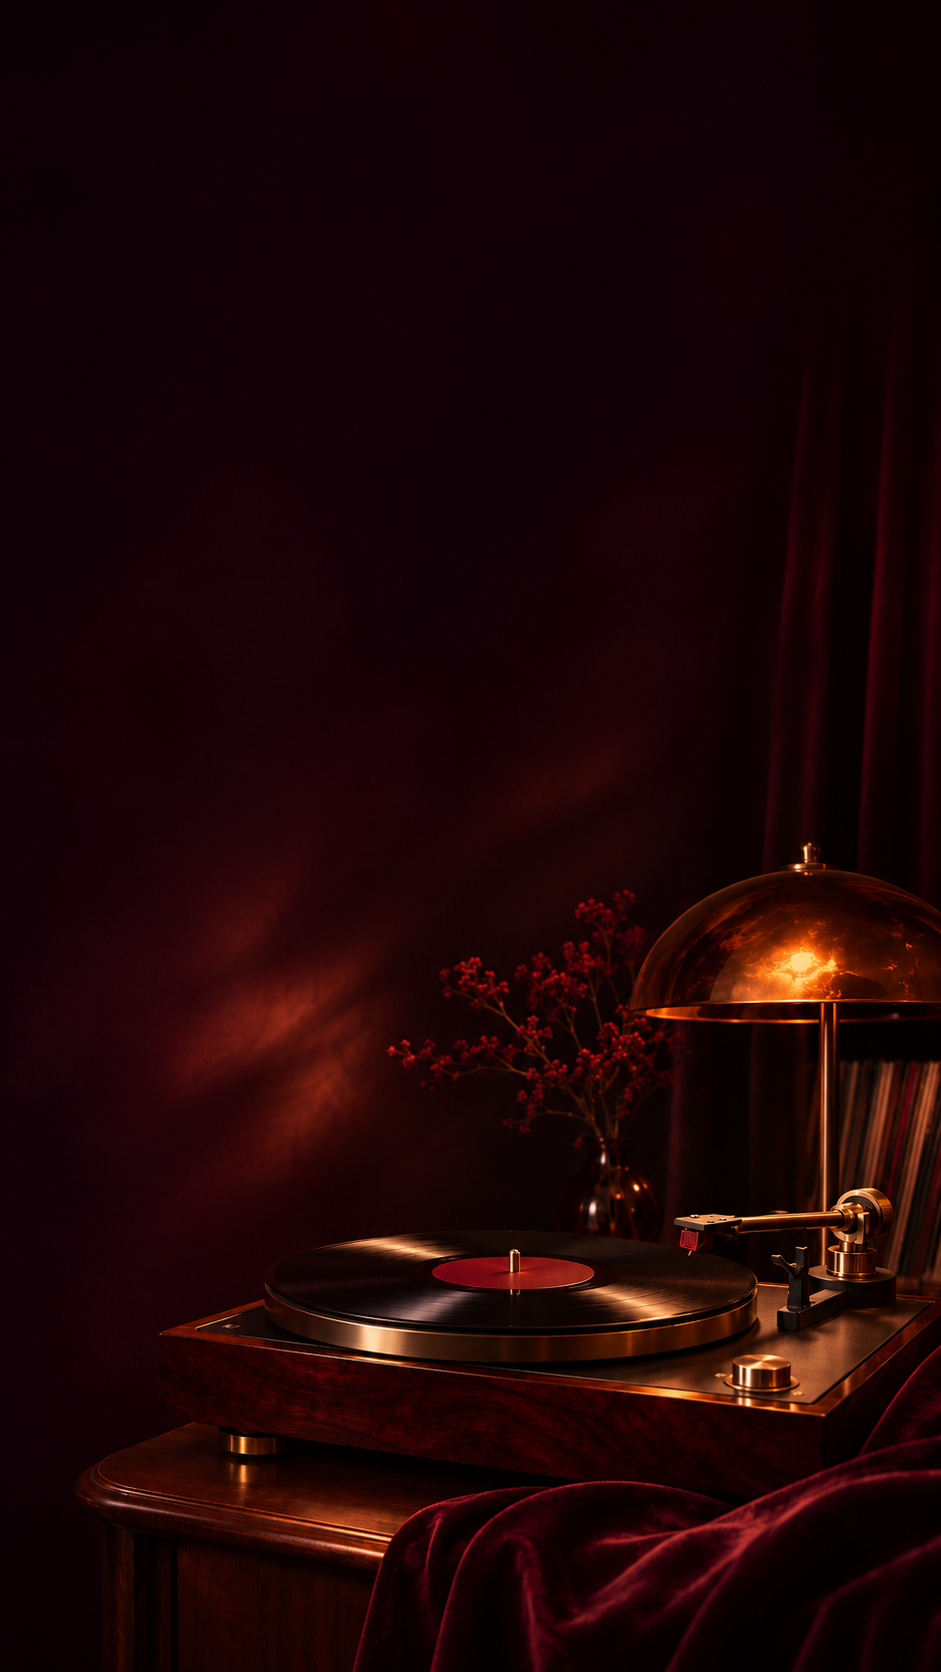
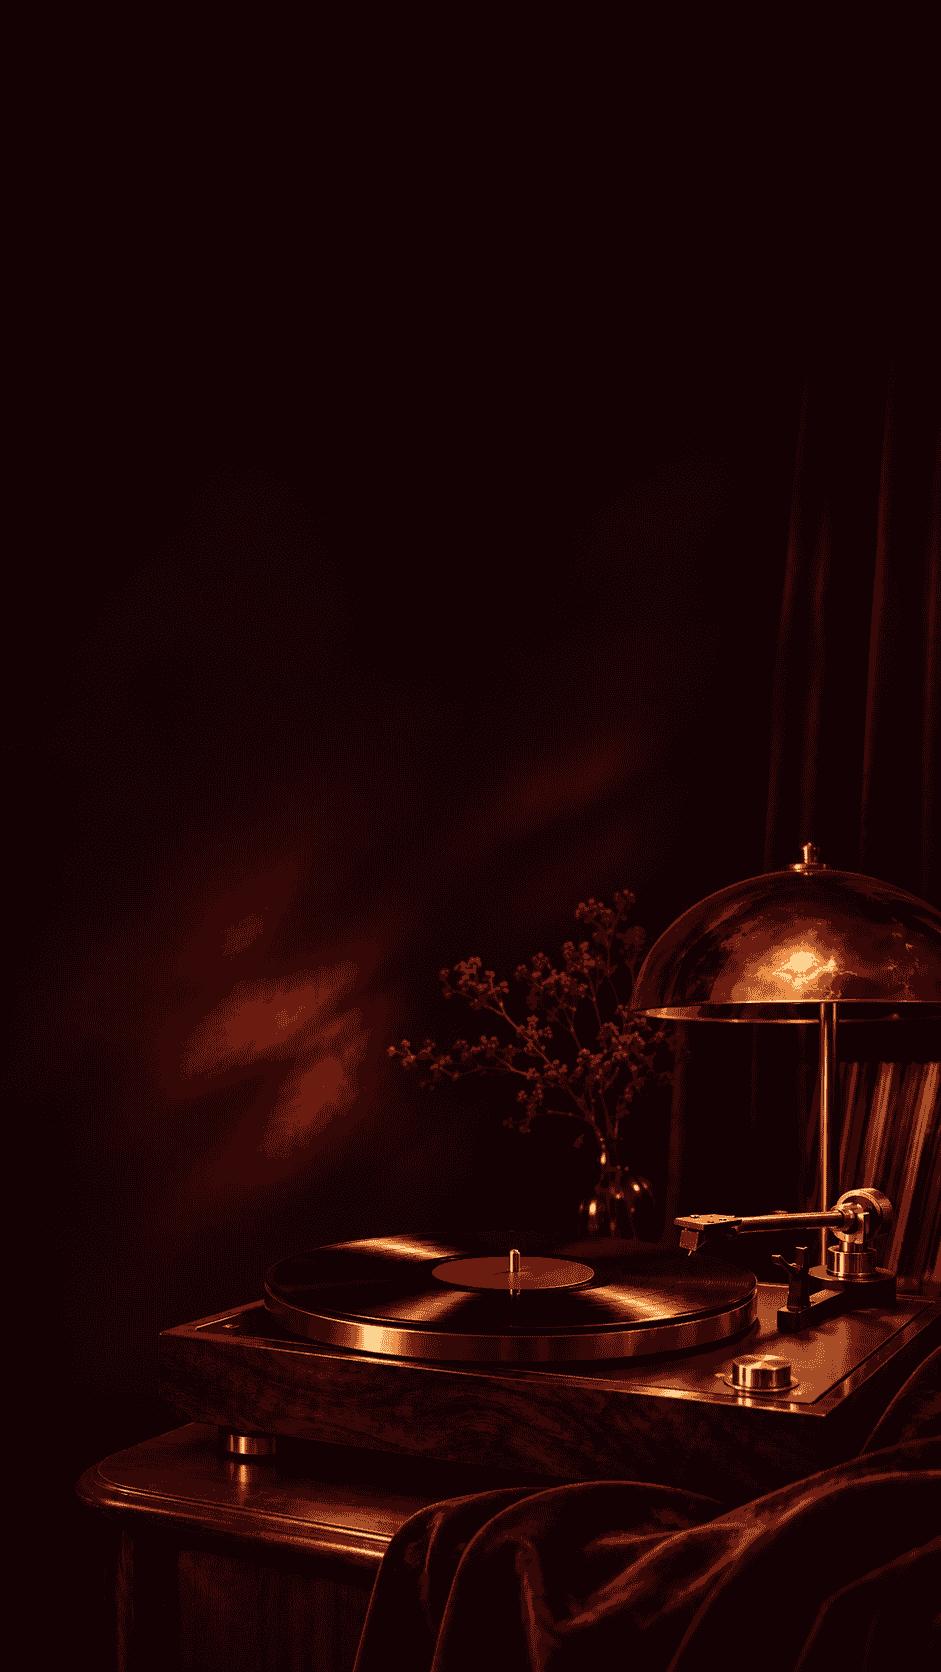
AI: Document further image sources and optimize static website assets

diff --git a/static-site/index.html b/static-site/index.html
@@ -384,7 +384,7 @@
             <article class="record-card" data-category="raye">
               <img
                 class="record-cover"
-                src="images/raye-winter.png"
+                src="images/raye-winter.webp"
                 alt="Cover of RAYE's Welcome to the Winter EP, showing an ice cream van under a cloudy sky"
                 width="180"
                 height="180"

diff --git a/README.md b/README.md
@@ -121,6 +121,17 @@ Die Seiten sind durch Links in der Header-Navigation, im Footer und innerhalb de
 
 ## Bildquellen
 
+### Homepage-Hero-Bilder
+
+- **RAYE (`hero-raye.jpg`):** Konzertfotografie von RAYEs Auftritt in der Radio City Music Hall. Bildquelle: Instagram, „Never ever getting over seeing @raye live at Radio City!!!“.
+  Quelle: https://www.instagram.com/p/DXWpvZhjkzJ/
+
+- **Amma (`hero-amma.jpg`):** Konzertfotografie von Ammas Live-Debüt beim All Points East Festival. Bildquelle: Instagram, „amma making her live debut at @allpointseastuk“. 
+  Quelle: https://www.instagram.com/p/DNtEcMFUGkb/
+
+- **Absolutely (`hero-absolutely.webp`):** Konzertfotografie von Absolutelys Auftritt im Palladium in Köln am 15.03.2026. Foto: Laura Keimel, Frontstage Magazine, „Renee Rapp am 15. März im Palladium in Köln“ (16.03.2026).  
+  Quelle: https://frontstage-magazine.de/2026/03/16/renee-rapp-am-15-maerz-im-palladium-in-koeln/
+
 ### Künstlerinnenporträts
 
 - **RAYE:** Journal.hr, „Poslušali smo: This Music May Contain Hope, Raye“ (31.03.2026). Bildcredit: Profimedia.
@@ -133,6 +144,14 @@ Die Seiten sind durch Links in der Header-Navigation, im Footer und innerhalb de
 - **Absolutely:** The Independent, „The next big star in UK pop? Absolutely“ (11.01.2026).
   Bildcredit: Press; Fotograf nicht angegeben.
   Quelle: https://www.independent.co.uk/arts-entertainment/music/features/absolutely-singer-raye-sister-tour-b2897570.html
+
+### KI-generierte Bilder
+- **Favicon für Website (`favicon_BTM.png`):**
+Mit ChatGPT (OpenAI) generiertes Bild, abgestimmt auf meinen Websiteninhalt (Schallplatte).
+
+- **Coming-Soon-Hintergrundbilder (`coming-soon-turntable-desktop.png` und `coming-soon-turntable-mobile.png`):** Mit ChatGPT (OpenAI) generierte Bildmotive auf Grundlage meiner eigenen gestalterischen Idee. Dargestellt wird ein stillstehender Schallplattenspieler mit angehobenem Tonarm als visuelle Metapher für noch nicht verfügbare Seiten. Die beiden Varianten wurden für Desktop- und Mobile-Bildschirme unterschiedlich komponiert.
+
+  **Bildgenerierung:** ChatGPT (OpenAI), 2026.
 
 ### Record-Cover
 
